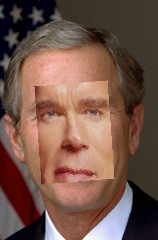
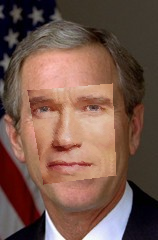
Blending Done

Changed region(s): [[0.1772, 0.3208, 0.7342, 0.7875], [0.6076, 0.5542, 0.6582, 0.6125], [0.5316, 0.525, 0.557, 0.5542]]

diff --git a/faceSwapping.py b/faceSwapping.py
@@ -119,6 +119,10 @@ class Swapper:
         bary_coordinates = self.barycentric_coordinates(final_image_coordinates, p)
         simplices = self.tri.simplices
         int_image1 = np.zeros((m,n,3))
+        top_pixel = np.zeros((m,n,3))
+        right_pixel = np.zeros((m,n,3))
+        down_pixel = np.zeros((m,n,3))
+        left_pixel = np.zeros((m,n,3))
         for i in range(m):
             for j in range(n):
                 triangle_number = p[i*n+j]
@@ -129,6 +133,10 @@ class Swapper:
                 barycentric = bary_coordinates[i*n+j]
                 p1 = myadd(myadd(tuple(x*barycentric[0] for x in self.list1[corner_points[0]]),tuple(x*barycentric[1] for x in self.list1[corner_points[1]])),tuple(x*barycentric[2] for x in self.list1[corner_points[2]]))
                 int_image1[i,j] = self.image1_unmod[p1]
+                top_pixel[i,j] = self.image1_unmod[(p1[0]-1,p1[1])]
+                right_pixel[i,j] = self.image1_unmod[(p1[0],p1[1]+1)]
+                down_pixel[i,j] = self.image1_unmod[(p1[0]+1,p1[1])]
+                left_pixel[i,j] = self.image1_unmod[(p1[0],p1[1]-1)]
         # Now p has the triangle number for each of the pixels
         grad_x = cv2.Sobel(int_image1,cv2.CV_8U,1,0)  
         grad_y = cv2.Sobel(int_image1,cv2.CV_8U,0,1)
@@ -147,13 +155,24 @@ class Swapper:
                 column_indices.append(interior_points[(i,j)])
                 data.append(4)
                 right = np.zeros(3)
+                count = 0
                 for neighbor in [(i+1,j),(i-1,j), (i,j+1), (i,j-1)]:
+                    count += 1
                     if self.inside[neighbor[0]*n+neighbor[1]] >= 0:
                         row_indices.append(interior_points[(i,j)])
                         column_indices.append(interior_points[neighbor])
                         data.append(-1)
                     elif self.in_delta_omega(neighbor):
                         right += self.image2_unmod[neighbor]
+                        if count == 1:
+                            right += int_image1[i,j] - down_pixel[i,j]
+                        if count == 2:
+                            right += int_image1[i,j] - top_pixel[i,j]
+                        if count == 3:
+                            right += int_image1[i,j] - right_pixel[i,j]
+                        if count == 4:
+                            right += int_image1[i,j] - left_pixel[i,j]
+                        continue
                     right += int_image1[i,j] - int_image1[neighbor]
                 right_r.append(right[0])
                 right_g.append(right[1])
@@ -176,7 +195,6 @@ class Swapper:
             for j in range(n):
                 if self.inside[i*n + j] < 0:
                     continue
-                print("Change")
                 int_image1[i,j][0] = f_r[interior_points[(i,j)]]
                 int_image1[i,j][1] = f_g[interior_points[(i,j)]]
                 int_image1[i,j][2] = f_b[interior_points[(i,j)]]
